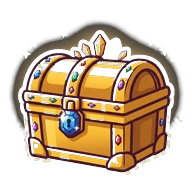
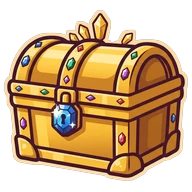
Obrázek hráče vpravo nahoře otevře rovnou Nastavení; zavřená Zlatá truhla bez šedého lemu ze záře
Claude-Session: https://claude.ai/code/session_01BQmFBYsgGAXtVP2veUue6Z

diff --git a/app.js b/app.js
@@ -8559,15 +8559,14 @@
             const profile = myProfile || { display_name: user.name, avatar: '🦊', color: 'emerald' };
             button.className = 'shrink-0 rounded-full shadow-md ring-2 ring-white transition-all active:scale-95 dark:ring-slate-700';
             button.innerHTML = avatarHtml(profile, 'h-11 w-11 text-2xl');
-            button.setAttribute('aria-label', `Nastavení a profil: ${playerName(profile)}`);
-            button.title = `Nastavení a profil: ${playerName(profile)}`;
+            button.setAttribute('aria-label', `Nastavení: ${playerName(profile)}`);
+            button.title = `Nastavení: ${playerName(profile)}`;
         } else {
-            // Bez přihlášení: na hlavních obrazovkách postavička (záložka Já), při hře ozubené kolečko (Nastavení)
-            const main = mainShown();
+            // Bez přihlášení ozubené kolečko (otevře Nastavení)
             button.className = BUTTON_BACK;
-            button.innerHTML = `<i data-lucide="${main ? 'user-round' : 'settings-2'}" class="h-5 w-5"></i>`;
-            button.setAttribute('aria-label', main ? 'Já: profil a nastavení' : 'Nastavení');
-            button.title = main ? 'Já: profil a nastavení' : 'Nastavení';
+            button.innerHTML = '<i data-lucide="settings-2" class="h-5 w-5"></i>';
+            button.setAttribute('aria-label', 'Nastavení');
+            button.title = 'Nastavení';
             renderIcons(button);
         }
     };
@@ -14532,11 +14531,8 @@
 
     // Šipka zpět v hlavičce: totéž co Zpět v prohlížeči (o úroveň výš v Učení a v Dobývání, jinak na záložku, ze které hráč přišel)
     document.getElementById('btn-home').addEventListener('click', () => goBack());
-    // Obrázek hráče vpravo nahoře: na hlavních obrazovkách vede na záložku Já, při hře otevře Nastavení (hru neukončí)
-    document.getElementById('btn-settings').addEventListener('click', () => {
-        if (!mainShown()) openSettings();
-        else if (navTab !== 'ja') goTab('ja');
-    });
+    // Obrázek hráče vpravo nahoře: všude rovnou otevře Nastavení na kartě Hra (při hře ji neukončí); profil a ostatní jsou na záložce Já
+    document.getElementById('btn-settings').addEventListener('click', () => openSettings('', null, 'game'));
     document.getElementById('status-badge').addEventListener('click', (event) => switchFromBadge(event));
     // Žárovka: nejdřív zajímavost dne (když je nepřečtená), jinak pozvánka do turnaje
     document.getElementById('fact-hint').addEventListener('click', () => {

diff --git a/index.html b/index.html
@@ -131,11 +131,11 @@
                 <img src="icons/topics/napoveda.webp" alt="" class="fact-bulb relative h-7 w-7 object-contain">
             </button>
 
-            <!-- Vpravo: na hlavních obrazovkách čip série dní a obrázek hráče (záložka Já); při hře jen obrázek hráče (Nastavení) -->
+            <!-- Vpravo: na hlavních obrazovkách čip série dní; obrázek hráče (bez přihlášení ozubené kolečko) vždy otevře Nastavení -->
             <div class="ml-auto flex shrink-0 items-center gap-1.5">
                 <div id="header-chips" class="mr-1.5 flex shrink-0 items-center gap-1.5 empty:hidden"></div>
-                <button id="btn-settings" type="button" class="flex h-11 w-11 items-center justify-center rounded-2xl btn-3d-light bg-white text-slate-600 hover:text-brand-700 dark:bg-slate-800 dark:text-slate-300 dark:hover:text-white" title="Já: profil a nastavení" aria-label="Já: profil a nastavení">
-                    <i data-lucide="user-round" class="w-5 h-5"></i>
+                <button id="btn-settings" type="button" class="flex h-11 w-11 items-center justify-center rounded-2xl btn-3d-light bg-white text-slate-600 hover:text-brand-700 dark:bg-slate-800 dark:text-slate-300 dark:hover:text-white" title="Nastavení" aria-label="Nastavení">
+                    <i data-lucide="settings-2" class="w-5 h-5"></i>
                 </button>
             </div>
         </header>

diff --git a/tests/nav.js b/tests/nav.js
@@ -35,12 +35,18 @@ const action = (tab, name, data = {}) => tab.evaluate(([name, data]) => {
     button.remove();
 }, [name, data]);
 
-// Okno Nastavení tak, jak ho otevírá hráč: při hře obrázek hráče (ozubené kolečko) v hlavičce, na hlavních obrazovkách vede obrázek
-// na záložku Já a Nastavení otevře její řádek (which: game = Nastavení hry, profile = Profil, owl = Mudrlant). Test skončí na záložce Já.
+// Okno Nastavení tak, jak ho otevírá hráč ze záložky Já: řádek which (game = Nastavení hry, profile = Profil, owl = Mudrlant).
+// Test skončí na záložce Já. Při hře (bez spodní lišty) obrázek hráče v hlavičce a pak karta which.
 const settingsFromJa = async (tab, which = 'game') => {
     if (!(await tab.$('#settings-overlay'))) {
-        await tab.click('#btn-settings');
-        if (!(await tab.$('#settings-overlay'))) await tab.click(`#ja-rows [data-ja="${which}"]`);
+        if (await tab.$('#app-content > [data-tab-root]')) {
+            await go(tab, 'ja');
+            await tab.click(`#ja-rows [data-ja="${which}"]`);
+        } else {
+            await tab.click('#btn-settings');
+            await tab.waitForSelector('#settings-overlay');
+            if (which !== 'game') await tab.click(`#settings-overlay [data-me-tab="${which}"]`);
+        }
     }
     await tab.waitForSelector('#settings-overlay');
 };

diff --git a/tests/e2e.test.js b/tests/e2e.test.js
@@ -1650,7 +1650,13 @@ test('aplikace v prohlížeči', { skip: !chromium && 'Playwright není nainstal
         await one.tab.waitForSelector('#btn-settings span');
         assert.match(await one.tab.getAttribute('#btn-settings', 'aria-label'), /Jana Nováková/);
         assert.equal(await one.tab.locator('#btn-profile').count(), 0, 'nastavení a profil jsou jedno tlačítko');
-        // Obrázek hráče v hlavičce vede na záložku Já; řádek Profil otevře Nastavení na záložce Profil
+        // Obrázek hráče v hlavičce otevře rovnou Nastavení na kartě Hra (záložka pod oknem zůstane)
+        await one.tab.click('#btn-settings');
+        await one.tab.waitForSelector('#settings-overlay [data-me-tab="game"][aria-selected="true"]');
+        assert.equal(await nav.currentTab(one.tab), 'souperi:vyzvy');
+        await one.tab.keyboard.press('Escape');
+        await one.tab.waitForSelector('#settings-overlay', { state: 'detached' });
+        // Řádek Profil na záložce Já otevře Nastavení na záložce Profil
         await nav.settingsFromJa(one.tab, 'profile');
         assert.equal(await nav.currentTab(one.tab), 'ja');
         assert.match(await one.tab.textContent('#ja-card'), /Jana Nováková/);

diff --git a/scripts/topic-icons.py b/scripts/topic-icons.py
@@ -101,9 +101,31 @@ def cut(path, name=''):
     im = Image.fromarray(np.dstack([rgb, alpha * 255]).round().astype(np.uint8), 'RGBA')
     return im.crop(im.getchannel('A').point(lambda v: 255 if v > 8 else 0).getbbox())
 
+# Zavřená Zlatá truhla: teplá záře kolem truhly má skoro barvu krémového okraje, takže by v ikoně zůstala jako šedý lem.
+# Předmět se proto vymezí tmavě vínovým obrysem kresby (výplň od okraje obrázku se přes něj nedostane) a k němu se přidá
+# krémový okraj těsně vně; záře a jiskry kolem zmizí, okraj se jen lehce změkčí.
+OUTLINE_CUT = {'zlata-truhla'}
+
+def outline_cut(path):
+    def fill_from(mask, seed):
+        im = Image.fromarray((mask * 255).astype(np.uint8)).copy(); ImageDraw.floodfill(im, seed, 128); return np.asarray(im) == 128
+    def grow(m, k): return np.asarray(Image.fromarray((m * 255).astype(np.uint8)).filter(ImageFilter.MaxFilter(k))) > 0
+    a = np.asarray(Image.open(path).convert('RGB')).astype(np.float32)
+    H, W, _ = a.shape
+    r, g, b = a[..., 0], a[..., 1], a[..., 2]
+    dark = (g < 60) & (r > 40) & (r - g > 25)
+    outside = fill_from(~grow(dark, 5), (3, 3))
+    subject = fill_from(~outside, (W // 2, H // 2))
+    cream = (r > 235) & (g > 200) & (b > 130) & (b < 215)
+    subject = subject | (grow(subject, 41) & cream)
+    subject = ~fill_from(~subject, (3, 3))
+    alpha = Image.fromarray((subject * 255).astype(np.uint8)).filter(ImageFilter.MinFilter(3)).filter(ImageFilter.GaussianBlur(1.5))
+    im = Image.fromarray(np.dstack([a, np.asarray(alpha)]).round().astype(np.uint8), 'RGBA')
+    return im.crop(im.getchannel('A').point(lambda v: 255 if v > 8 else 0).getbbox())
+
 def icon(path, name=''):
     # Vyříznutá ikona ve čtverci SIZE×SIZE (sova v pózách 320×320, zobrazuje se velká); používá i scripts/building-art.py
-    im = cut(path, name)
+    im = outline_cut(path) if name in OUTLINE_CUT else cut(path, name)
     size = 320 if name.startswith('sova-') else SIZE
     inner = size - 8
     scale = inner / max(im.size)
